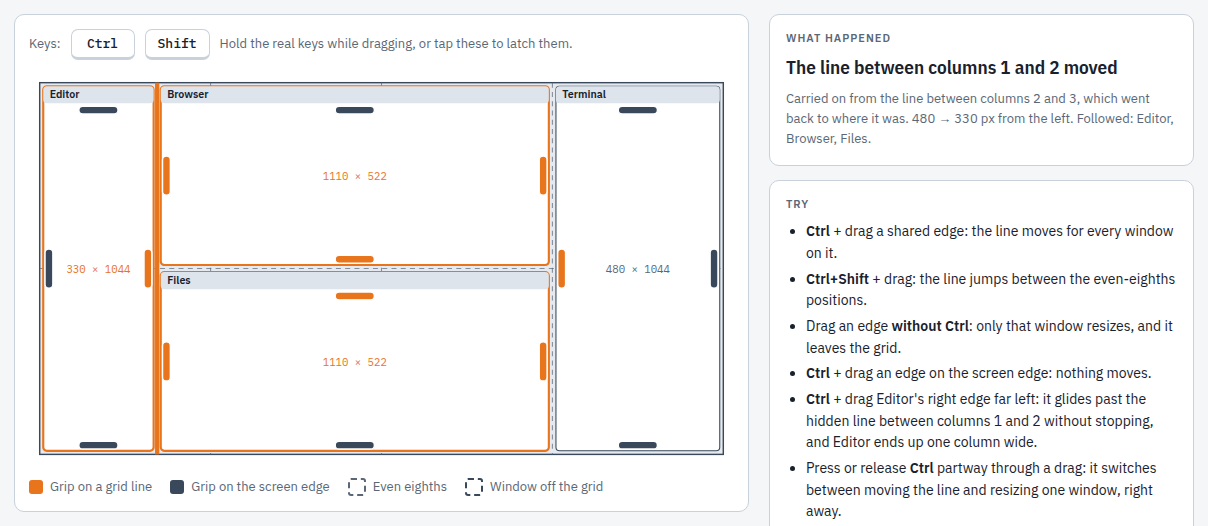
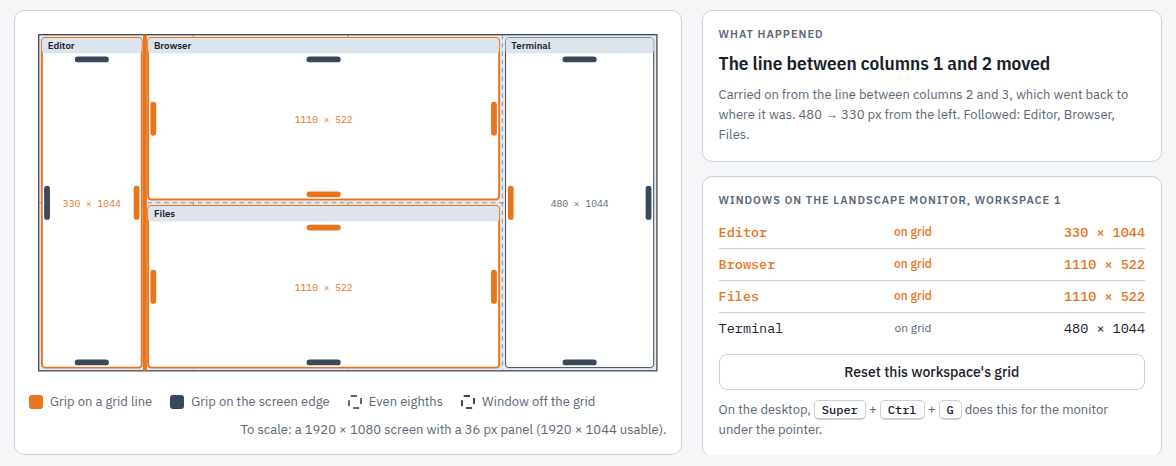
Condense the Try it now section
Screen, workspace and key controls share one labelled bar; What happened
and the window list sit beside the demo at its height; the things to try
become a grid of short cards below. README screenshots updated.

diff --git a/docs/index.html b/docs/index.html
@@ -83,10 +83,8 @@ header { display: flex; flex-direction: column; gap: 14px; }
 .seg button:focus-visible, .btn:focus-visible, .key:focus-visible, .zone:focus-visible, .mini:focus-visible, .grip:focus-visible { outline: 3px solid var(--result); outline-offset: 2px; }
 .monitor-note, .hint { color: var(--muted); font-size: 13px; }
 
-.work { display: flex; flex-wrap: wrap; gap: 20px; align-items: flex-start; }
 .map-box { flex: 1 1 560px; min-width: 0; background: var(--panel); border: 1px solid var(--line); border-radius: 10px; padding: 14px; margin: 0; display: flex; flex-direction: column; gap: 12px; }
 .map-box svg { display: block; width: 100%; height: auto; max-height: 74vh; margin: 0 auto; touch-action: none; user-select: none; -webkit-user-select: none; }
-.readout { flex: 1 1 280px; min-width: 0; display: flex; flex-direction: column; gap: 14px; }
 .card { background: var(--panel); border: 1px solid var(--line); border-radius: 10px; padding: 16px; display: flex; flex-direction: column; gap: 10px; }
 .card.blocked { border-color: var(--blocked); }
 .card.blocked .result-title { color: var(--blocked); }
@@ -104,7 +102,6 @@ header { display: flex; flex-direction: column; gap: 14px; }
 .wins tr.changed td { color: var(--result); font-weight: 500; }
 .keys-row { display: flex; flex-wrap: wrap; align-items: center; gap: 8px 10px; }
 
-.try { margin: 0; padding-left: 20px; display: flex; flex-direction: column; gap: 4px; font-size: 14px; }
 .legend { display: flex; flex-wrap: wrap; gap: 8px 18px; font-size: 13px; color: var(--muted); }
 .legend span { display: inline-flex; align-items: center; gap: 7px; }
 .sw { width: 14px; height: 14px; border-radius: 3px; display: inline-block; }
@@ -121,6 +118,25 @@ table.rules { border-collapse: collapse; width: 100%; font-size: 14px; }
 .rules td .sw { vertical-align: -2px; margin-right: 8px; }
 .rules td.k { white-space: nowrap; font-family: var(--font-mono); font-size: 13px; }
 
+/* Try-it-now controls: one bar with labelled groups. */
+.control-bar { display: flex; flex-wrap: wrap; gap: 12px 28px; align-items: flex-end; background: var(--panel); border: 1px solid var(--line); border-radius: 10px; padding: 12px 14px; }
+.ctl { display: flex; flex-direction: column; gap: 6px; }
+.ctl-label { font: 600 11px var(--font-body); letter-spacing: .09em; text-transform: uppercase; color: var(--muted); }
+.ctl-sub { text-transform: none; letter-spacing: 0; font-weight: 400; margin-left: 4px; }
+.map-box .legend .monitor-note { margin-left: auto; }
+/* A side column that takes its height from the figure beside it. */
+.fill-panel { position: relative; min-width: 0; min-height: 360px; }
+.fill { position: absolute; inset: 0; overflow-y: auto; overscroll-behavior: contain; display: flex; flex-direction: column; gap: 14px; }
+.things { display: flex; flex-direction: column; gap: 10px; }
+.things-title { margin: 0; font: 600 1.05rem var(--font-display); }
+.things-grid { list-style: none; margin: 0; padding: 0; display: grid; grid-template-columns: repeat(3, minmax(0, 1fr)); gap: 10px; }
+.things-grid li { background: var(--panel); border: 1px solid var(--line); border-radius: 10px; padding: 12px 14px; display: flex; flex-direction: column; gap: 4px; font-size: 14px; color: var(--muted); min-width: 0; }
+.things-grid .do { color: var(--fg); font-weight: 600; }
+@media (max-width: 860px) {
+  .things-grid { grid-template-columns: 1fr; }
+  .fill-panel { min-height: 0; }
+  .fill { position: static; }
+}
 /* Map with the catalogue beside it: the map sets the row height, and the
    catalogue scrolls within it. Stacks on narrow screens. */
 .map-layout { display: grid; grid-template-columns: minmax(0, 1.45fr) minmax(0, 1fr); gap: 20px; }
@@ -288,60 +304,71 @@ html { scroll-behavior: smooth; }
     <div class="try-head">
       <span class="live"><span class="dot" aria-hidden="true"></span>Interactive demo</span>
       <h2 id="demo-h">Try it now: move a grid line</h2>
-      <p>This is a working model of the extension, sized to a real 1920 × 1080 screen. These windows were snapped into the grid. Grab any orange grip on a window edge and drag it, holding the keys the way you would on the desktop.</p>
+      <p>A working model of the extension on a real-size screen. Drag any grip on a window edge, holding the keys as you would on the desktop.</p>
     </div>
-    <div class="toolbar">
-      <div class="seg" role="group" aria-label="Monitor">
-        <button id="btn-landscape" type="button" aria-pressed="true">Landscape 4 × 2</button>
-        <button id="btn-portrait" type="button" aria-pressed="false">Portrait 2 × 4</button>
+
+    <div class="control-bar">
+      <div class="ctl">
+        <span class="ctl-label" id="lbl-screen">Screen</span>
+        <div class="seg" role="group" aria-labelledby="lbl-screen">
+          <button id="btn-landscape" type="button" aria-pressed="true">Landscape 4 × 2</button>
+          <button id="btn-portrait" type="button" aria-pressed="false">Portrait 2 × 4</button>
+        </div>
       </div>
-      <div class="seg" role="group" aria-label="Workspace">
-        <button id="btn-ws0" type="button" aria-pressed="true">Workspace 1</button>
-        <button id="btn-ws1" type="button" aria-pressed="false">Workspace 2</button>
+      <div class="ctl">
+        <span class="ctl-label" id="lbl-ws">Workspace</span>
+        <div class="seg" role="group" aria-labelledby="lbl-ws">
+          <button id="btn-ws0" type="button" aria-pressed="true">1</button>
+          <button id="btn-ws1" type="button" aria-pressed="false">2</button>
+        </div>
       </div>
-      <span class="monitor-note" id="monitor-note"></span>
-    </div>
-    <div class="work">
-      <figure class="map-box">
+      <div class="ctl">
+        <span class="ctl-label">Keys <span class="ctl-sub">hold, or tap to latch</span></span>
         <div class="keys-row">
-          <span class="hint">Keys:</span>
           <button class="key" id="key-ctrl" type="button" aria-pressed="false">Ctrl</button>
           <button class="key" id="key-shift" type="button" aria-pressed="false">Shift</button>
-          <span class="hint">Hold the real keys while dragging, or tap these to latch them.</span>
         </div>
+      </div>
+    </div>
+
+    <div class="map-layout">
+      <figure class="map-box">
         <svg id="demo" role="img" aria-label="Example screen with windows snapped into the grid. Each window edge has a grip to drag."></svg>
         <figcaption class="legend">
           <span><i class="sw" style="background:var(--result)"></i>Grip on a grid line</span>
           <span><i class="sw" style="background:var(--grid)"></i>Grip on the screen edge</span>
           <span><i class="sw" style="border:2px dashed var(--muted)"></i>Even eighths</span>
           <span><i class="sw" style="border:2px dashed var(--grid)"></i>Window off the grid</span>
+          <span class="monitor-note" id="monitor-note"></span>
         </figcaption>
       </figure>
-      <aside class="readout">
-        <div class="card" id="d-card" aria-live="polite">
-          <div class="eyebrow">What happened</div>
-          <div id="d-title" class="result-title">Nothing yet</div>
-          <div id="d-detail" class="hint">Try the list below.</div>
+      <div class="fill-panel">
+        <div class="fill">
+          <div class="card" id="d-card" aria-live="polite">
+            <div class="eyebrow">What happened</div>
+            <div id="d-title" class="result-title">Nothing yet</div>
+            <div id="d-detail" class="hint">Drag a grip, or pick something from the list below.</div>
+          </div>
+          <div class="card">
+            <div class="eyebrow" id="d-wins-h">Windows</div>
+            <table class="wins mono"><tbody id="d-wins"></tbody></table>
+            <button class="btn" id="d-reset" type="button">Reset this workspace's grid</button>
+            <span class="hint">On the desktop, <kbd>Super</kbd> + <kbd>Ctrl</kbd> + <kbd>G</kbd> does this for the monitor under the pointer.</span>
+          </div>
         </div>
-        <div class="card">
-          <div class="eyebrow">Try</div>
-          <ul class="try">
-            <li><b>Ctrl</b> + drag a shared edge: the line moves for every window on it.</li>
-            <li><b>Ctrl+Shift</b> + drag: the line jumps between the even-eighths positions.</li>
-            <li>Drag an edge <b>without Ctrl</b>: only that window resizes, and it leaves the grid.</li>
-            <li><b>Ctrl</b> + drag an edge on the screen edge: nothing moves.</li>
-            <li><b>Ctrl</b> + drag Editor's right edge far left: it glides past the hidden line between columns 1 and 2 without stopping, and Editor ends up one column wide.</li>
-            <li>Press or release <b>Ctrl</b> partway through a drag: it switches between moving the line and resizing one window, right away.</li>
-            <li>Switch workspace or monitor: each has its own grid.</li>
-          </ul>
-        </div>
-        <div class="card">
-          <div class="eyebrow" id="d-wins-h">Windows</div>
-          <table class="wins mono"><tbody id="d-wins"></tbody></table>
-          <button class="btn" id="d-reset" type="button">Reset this workspace's grid</button>
-          <span class="hint">On the desktop: Super+Ctrl+G resets the grid on the monitor under the pointer, on the current workspace.</span>
-        </div>
-      </aside>
+      </div>
+    </div>
+
+    <div class="things">
+      <h3 class="things-title">Things to try</h3>
+      <ul class="things-grid">
+        <li><span class="do"><kbd>Ctrl</kbd> + drag an orange grip</span><span>The grid line moves, and every window on it follows.</span></li>
+        <li><span class="do"><kbd>Ctrl</kbd> + <kbd>Shift</kbd> + drag</span><span>The line snaps to the even eighths.</span></li>
+        <li><span class="do">Drag with no keys</span><span>Only that window resizes, and it leaves the grid.</span></li>
+        <li><span class="do"><kbd>Ctrl</kbd> + drag a grey grip</span><span>Blocked: screen edges don't move.</span></li>
+        <li><span class="do"><kbd>Ctrl</kbd> + drag Editor's right edge far left</span><span>It glides past the hidden line, and Editor ends up one column wide.</span></li>
+        <li><span class="do">Press or release <kbd>Ctrl</kbd> mid-drag</span><span>Switches between moving the line and resizing one window.</span></li>
+      </ul>
     </div>
   </section>
 
